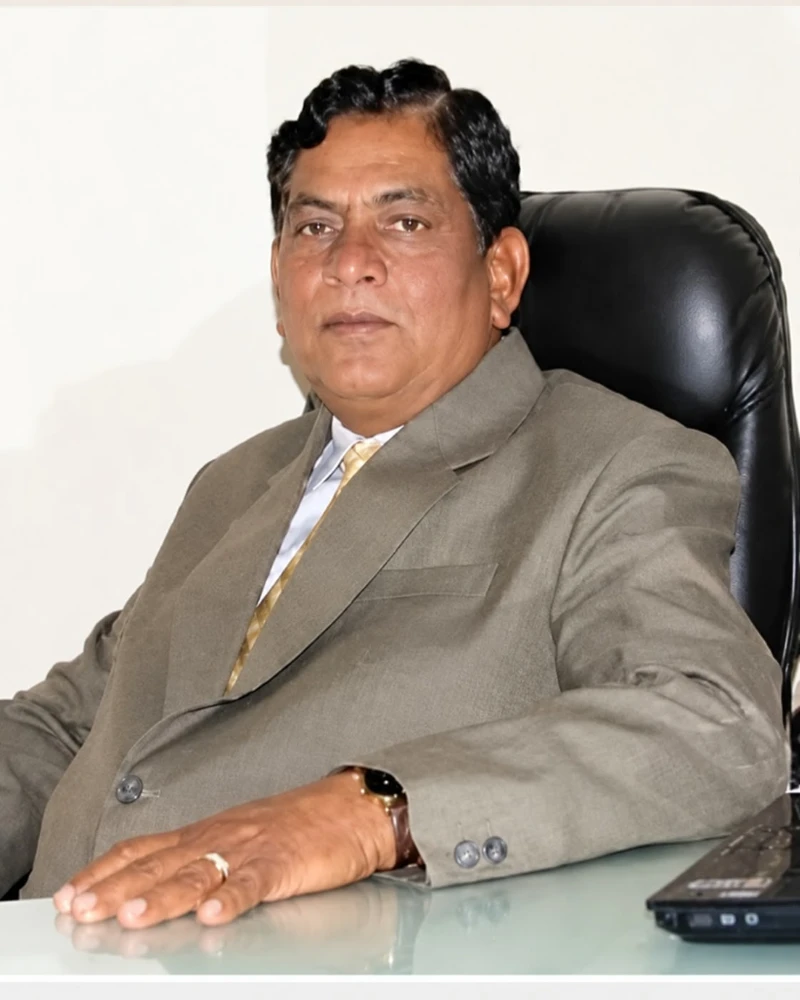
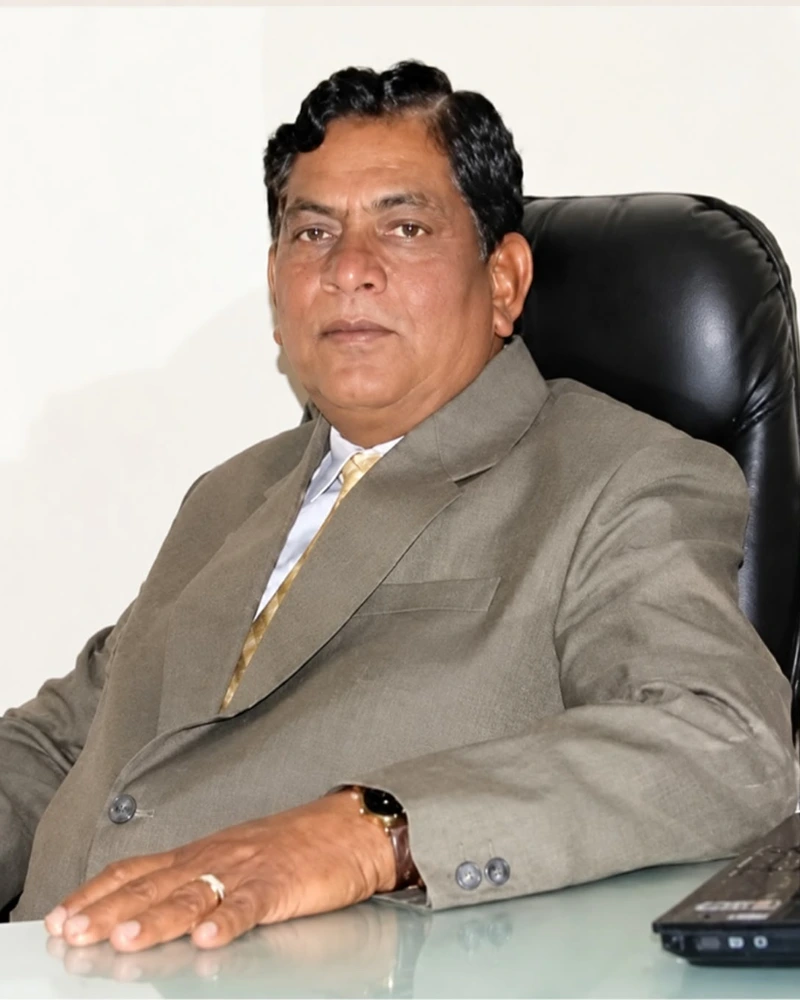
feat(about): implement new leadership gallery matching design mockup with supplied photographs

diff --git a/src/app/about/page.tsx b/src/app/about/page.tsx
@@ -186,170 +186,78 @@ export default function AboutPage() {
       </section>
 
       {/* =====================================================================
-          AUTHENTIC LEADERSHIP & PARTNERS (Cast Gallery Redesign)
+          THE PEOPLE BEHIND LN ENGINEERING — LEADERSHIP & PARTNERS GALLERY
           ===================================================================== */}
-      <section id="leadership" className="max-w-7xl mx-auto px-4 sm:px-8 space-y-12">
-        {/* Section Header with White CTA Button matching Reference */}
-        <div className="flex flex-col lg:flex-row lg:items-end justify-between gap-6 border-b border-[#202326] pb-8">
-          <div className="space-y-3 max-w-2xl">
-            <div className="inline-flex items-center gap-2 px-3 py-1 bg-[#191B1D] border border-[#202326] rounded-full text-xs text-[#E8E5DF]">
-              <span className="w-2 h-2 rounded-full bg-[#EF4444]"></span>
-              <span className="font-mono text-[11px] uppercase tracking-wider">Our Leadership & Partners</span>
-            </div>
-
-            <h2 className="font-display text-3xl sm:text-4xl md:text-5xl font-semibold uppercase text-white tracking-tight leading-tight">
-              Meet Our Leadership & Partners
+      <section id="leadership" className="max-w-7xl mx-auto px-4 sm:px-8 space-y-10 sm:space-y-12">
+        {/* Section Heading & Supporting Text */}
+        <div className="flex flex-col md:flex-row md:items-end justify-between gap-6 border-b border-[#202326] pb-8">
+          <div className="space-y-2">
+            <span className="font-mono text-xs sm:text-[13px] font-semibold tracking-[0.2em] text-[#EF4444] uppercase block">
+              OUR LEADERSHIP &amp; PARTNERS
+            </span>
+            <h2 className="font-display text-3xl sm:text-4xl md:text-5xl font-bold uppercase text-white tracking-tight leading-tight">
+              THE PEOPLE BEHIND LN ENGINEERING
             </h2>
-
-            <p className="text-sm sm:text-base text-[#A7ADB5] leading-relaxed">
-              Steered by qualified mechanical engineers and an industry veteran active in stone processing machinery since 1980. Over 500+ heavy stone processing machines designed, built, and commissioned across India and global export markets.
-            </p>
           </div>
 
-          <div className="flex flex-col sm:flex-row lg:flex-col items-start lg:items-end gap-4 shrink-0">
-            <div className="space-y-2 text-left lg:text-right max-w-xs">
-              <p className="text-xs text-[#A7ADB5] leading-relaxed">
-                Driven by experience, engineering excellence and a long-term commitment to the stone industry.
-              </p>
-              <div className="w-12 h-0.5 bg-[#EF4444] ml-0 lg:ml-auto"></div>
-            </div>
-
-            <Link
-              href="/contact"
-              className="inline-flex items-center gap-2 px-5 py-2.5 bg-white hover:bg-zinc-200 text-zinc-950 font-sans font-bold text-xs uppercase tracking-wider transition-colors shadow-lg"
-            >
-              <span>Contact Leadership</span>
-              <svg className="w-3.5 h-3.5" fill="none" viewBox="0 0 24 24" stroke="currentColor" strokeWidth={2.5}>
-                <path strokeLinecap="round" strokeLinejoin="round" d="M7 17L17 7m0 0H9m8 0v8" />
-              </svg>
-            </Link>
+          <div className="md:text-right max-w-sm space-y-3 shrink-0">
+            <p className="text-xs sm:text-sm text-[#A7ADB5] leading-relaxed">
+              Driven by experience, engineering excellence and a long-term commitment to the stone industry.
+            </p>
+            <div className="w-16 h-0.5 bg-[#EF4444] md:ml-auto"></div>
           </div>
         </div>
 
-        {/* Cast Gallery Photo-Cards Grid */}
-        <div className="grid grid-cols-1 sm:grid-cols-2 lg:grid-cols-3 gap-6 sm:gap-8 max-w-5xl mx-auto">
+        {/* 3 Large White-Framed Portrait Cards in One Row on Desktop */}
+        <div className="grid grid-cols-1 md:grid-cols-2 lg:grid-cols-3 gap-6 sm:gap-8 items-stretch">
           {company.leadership.map((leader, idx) => (
             <div
               key={leader.name}
-              className="bg-white rounded-none sm:rounded-sm border border-zinc-200/90 p-3.5 sm:p-4 pb-4 sm:pb-5 shadow-2xl flex flex-col justify-between group transition-all duration-300 hover:shadow-[0_20px_45px_rgba(255,255,255,0.08)] hover:-translate-y-1"
+              className={`bg-white rounded-none border border-zinc-200/90 p-4 sm:p-5 pb-5 sm:pb-6 shadow-2xl flex flex-col justify-between group transition-all duration-300 hover:shadow-[0_24px_50px_rgba(255,255,255,0.08)] hover:-translate-y-1 ${
+                idx === 2 ? "md:col-span-2 md:max-w-md md:mx-auto lg:col-span-1 lg:max-w-none lg:mx-0 w-full" : "w-full"
+              }`}
             >
-              {/* Museum Mat Framed Portrait */}
-              <div className="relative aspect-[4/5] w-full overflow-hidden bg-zinc-100 border border-zinc-200">
+              {/* White Portrait Frame with Museum Matting */}
+              <div className="relative aspect-[4/5] w-full overflow-hidden bg-zinc-100 border border-zinc-200/80">
                 <Image
                   src={leader.image}
                   alt={leader.imageAlt}
                   fill
-                  sizes="(max-width: 640px) 100vw, (max-width: 1024px) 50vw, 33vw"
-                  className="object-cover object-top group-hover:scale-105 transition-transform duration-500 ease-out"
+                  sizes="(max-width: 768px) 100vw, (max-width: 1200px) 50vw, 33vw"
+                  className="object-cover object-top motion-safe:group-hover:scale-105 motion-reduce:transform-none transition-transform duration-500 ease-out"
                   priority={idx === 0}
                 />
               </div>
 
-              {/* Card Footer: Verified Name, Designation, and Corner Arrow */}
-              <div className="pt-4 flex items-end justify-between gap-3">
+              {/* Information Panel: Name, Designation & Minimal Arrow */}
+              <div className="pt-5 flex items-end justify-between gap-4">
                 <div className="space-y-1 min-w-0">
-                  <h3 className="font-display text-base sm:text-lg font-bold uppercase tracking-tight text-zinc-950 truncate">
+                  <h3 className="font-serif tracking-wider text-base sm:text-lg font-bold text-zinc-950 uppercase leading-snug">
                     {leader.name}
                   </h3>
-                  <p className="text-xs font-sans font-semibold text-zinc-600 uppercase tracking-wider">
+                  <p className="text-xs font-sans tracking-[0.16em] font-medium text-zinc-500 uppercase">
                     {leader.role}
                   </p>
-                  {"experience" in leader && leader.experience ? (
-                    <p className="text-[10px] font-mono text-zinc-400 tracking-tight truncate">
-                      {leader.experience}
-                    </p>
-                  ) : "qualification" in leader && leader.qualification ? (
-                    <p className="text-[10px] font-mono text-zinc-400 tracking-tight truncate">
-                      {leader.qualification}
-                    </p>
-                  ) : null}
                 </div>
 
-                {/* Bottom Right Corner Arrow matching reference */}
-                <a
-                  href={`#profile-${leader.name.toLowerCase().replace(/[^a-z0-9]+/g, "-")}`}
-                  aria-label={`View detailed profile of ${leader.name}`}
-                  className="w-8 h-8 rounded-none border border-zinc-200 bg-zinc-50 flex items-center justify-center text-zinc-900 group-hover:bg-zinc-900 group-hover:text-white group-hover:border-zinc-900 transition-colors shrink-0 mb-0.5"
+                {/* Minimal Arrow matching reference */}
+                <div
+                  aria-hidden="true"
+                  className="text-zinc-900 group-hover:text-[#EF4444] transition-colors shrink-0 mb-1"
                 >
                   <svg
-                    className="w-3.5 h-3.5 transform group-hover:translate-x-0.5 group-hover:translate-y-0.5 transition-transform"
+                    className="w-5 h-5 transform motion-safe:group-hover:translate-x-1.5 motion-reduce:transform-none transition-transform duration-300"
                     fill="none"
                     viewBox="0 0 24 24"
                     stroke="currentColor"
-                    strokeWidth={2.5}
+                    strokeWidth={1.8}
                   >
-                    <path strokeLinecap="round" strokeLinejoin="round" d="M7 7l10 10m0 0H9m8 0V9" />
+                    <path strokeLinecap="round" strokeLinejoin="round" d="M14 5l7 7m0 0l-7 7m7-7H3" />
                   </svg>
-                </a>
+                </div>
               </div>
             </div>
           ))}
-        </div>
-
-        {/* Structured Executive Profiles & Operational Scope */}
-        <div className="space-y-6 pt-6">
-          <div className="flex items-center justify-between border-b border-[#202326] pb-3">
-            <h3 className="font-display text-sm sm:text-base font-bold uppercase text-white tracking-wider flex items-center gap-2">
-              <span className="w-2 h-2 rounded-full bg-[#EF4444]"></span>
-              <span>Executive Operational Scope & Technical Background</span>
-            </h3>
-            <span className="font-mono text-[11px] text-[#A7ADB5] hidden sm:inline-block">
-              Verified Company Records
-            </span>
-          </div>
-
-          <div className="grid grid-cols-1 md:grid-cols-3 gap-6">
-            {company.leadership.map((leader) => (
-              <div
-                key={leader.name}
-                id={`profile-${leader.name.toLowerCase().replace(/[^a-z0-9]+/g, "-")}`}
-                className="bg-[#141618] border border-[#202326] rounded-xl p-5 sm:p-6 space-y-4 hover:border-white/20 transition-colors shadow-lg scroll-mt-28 flex flex-col justify-between"
-              >
-                <div className="space-y-3">
-                  <div className="space-y-1 border-b border-white/5 pb-3">
-                    <div className="flex items-center justify-between gap-2">
-                      <h4 className="font-display text-lg font-bold uppercase text-white tracking-tight">
-                        {leader.name}
-                      </h4>
-                      <span className="text-[10px] font-mono text-[#EF4444] bg-[#EF4444]/10 px-2 py-0.5 rounded">
-                        {leader.badge}
-                      </span>
-                    </div>
-                    <p className="text-xs font-mono font-medium text-[#EF4444] uppercase tracking-wider">
-                      {leader.role}
-                    </p>
-                    {"experience" in leader && leader.experience ? (
-                      <p className="text-[11px] font-mono text-[#A7ADB5] pt-0.5">
-                        {leader.experience}
-                      </p>
-                    ) : "qualification" in leader && leader.qualification ? (
-                      <p className="text-[11px] font-mono text-[#A7ADB5] pt-0.5">
-                        {leader.qualification}
-                      </p>
-                    ) : null}
-                  </div>
-
-                  <p className="text-xs text-[#A7ADB5] leading-relaxed">
-                    {leader.bio}
-                  </p>
-                </div>
-
-                <div className="pt-3 border-t border-white/5 space-y-2">
-                  <span className="font-mono text-[10px] uppercase tracking-wider text-white font-semibold block">
-                    Core Operational Focus:
-                  </span>
-                  <ul className="space-y-1.5 text-[11px] text-[#A7ADB5] font-mono">
-                    {leader.responsibilities.map((resp, i) => (
-                      <li key={i} className="flex items-start gap-2">
-                        <span className="w-1.5 h-1.5 rounded-full bg-[#EF4444] mt-1.5 shrink-0"></span>
-                        <span>{resp}</span>
-                      </li>
-                    ))}
-                  </ul>
-                </div>
-              </div>
-            ))}
-          </div>
         </div>
 
         {/* Administration & Executive Management Card */}

diff --git a/src/data/company.ts b/src/data/company.ts
@@ -31,11 +31,11 @@ export const company = {
 
   leadership: [
     {
-      name: "Mr. Laxmi Narayan Jangid",
-      role: "Founder & Director",
-      badge: "Founder & Visionary",
-      image: "/images/about/leaders/laxmi-narayan-jangid.webp",
-      imageAlt: "Mr. Laxmi Narayan Jangid, Founder and Director of LN Engineering",
+      name: "MR. L. N. JANGID",
+      role: "FOUNDER & CHAIRMAN",
+      badge: "Founder & Chairman",
+      image: "/images/about/leadership/mr-l-n-jangid.webp",
+      imageAlt: "Mr. L. N. Jangid, Founder and Chairman of LN Engineering",
       experience: "30+ Years Industry Experience (Active Since 1980)",
       bio: "Rich experience in stone processing machinery manufacturing since 1980. Spearheads core machine design, structural innovation, and executive governance. His hands-on engineering research has guided LN Engineering to manufacture and commission over 500+ heavy stone processing machines.",
       responsibilities: [
@@ -45,13 +45,13 @@ export const company = {
       ],
     },
     {
-      name: "Mr. Narendra Jangid",
-      role: "Technical & Production Head",
-      badge: "Production & Engineering",
-      image: "/images/about/leaders/narendra-jangid.webp",
-      imageAlt: "Mr. Narendra Jangid, Technical and Production Head at LN Engineering",
-      qualification: "B.E. Mechanical (Pune University, D.Y. Patil College)",
-      bio: "Graduated in Mechanical Engineering from Pune University (D.Y. Patil College). Combines strong technical knowledge with rigorous production oversight, managing heavy gantry fabrication, precision pillar alignment, vibration damping, and turnkey plant installation.",
+      name: "MR. MAYANK JANGID",
+      role: "DIRECTOR",
+      badge: "Director",
+      image: "/images/about/leadership/mr-mayank-jangid.webp",
+      imageAlt: "Mr. Mayank Jangid, Director at LN Engineering",
+      qualification: "B.E. Mechanical & Production Oversight",
+      bio: "Combines strong mechanical engineering expertise with rigorous production oversight, managing heavy gantry fabrication, precision pillar alignment, vibration damping, and turnkey plant commissioning.",
       responsibilities: [
         "Machinery Manufacturing & Heavy Fabrication",
         "Structural Alignment & Tolerance Inspection",
@@ -59,13 +59,13 @@ export const company = {
       ],
     },
     {
-      name: "Mr. Mahendra Jangid",
-      role: "Marketing & Commercial Head",
-      badge: "Techno-Commercial & Strategy",
-      image: "/images/about/leaders/mahendra-jangid.webp",
-      imageAlt: "Mr. Mahendra Jangid, Marketing and Commercial Head at LN Engineering",
-      qualification: "B.E. Mechanical & MBA",
-      bio: "Holds dual qualifications in Mechanical Engineering and Business Administration (MBA). Brings deep techno-commercial insight to natural stone processing, leading new product development, international client partnerships, and after-sales service operations.",
+      name: "MR. MANISH JANGID",
+      role: "DIRECTOR",
+      badge: "Director",
+      image: "/images/about/leadership/mr-manish-jangid.webp",
+      imageAlt: "Mr. Manish Jangid, Director at LN Engineering",
+      qualification: "B.E. Mechanical & Commercial Strategy",
+      bio: "Brings deep techno-commercial insight to natural stone processing, leading new product development, international client partnerships, and after-sales service operations.",
       responsibilities: [
         "New Machine Development & R&D Strategy",
         "Techno-Commercial Proposals & Customer Relations",
